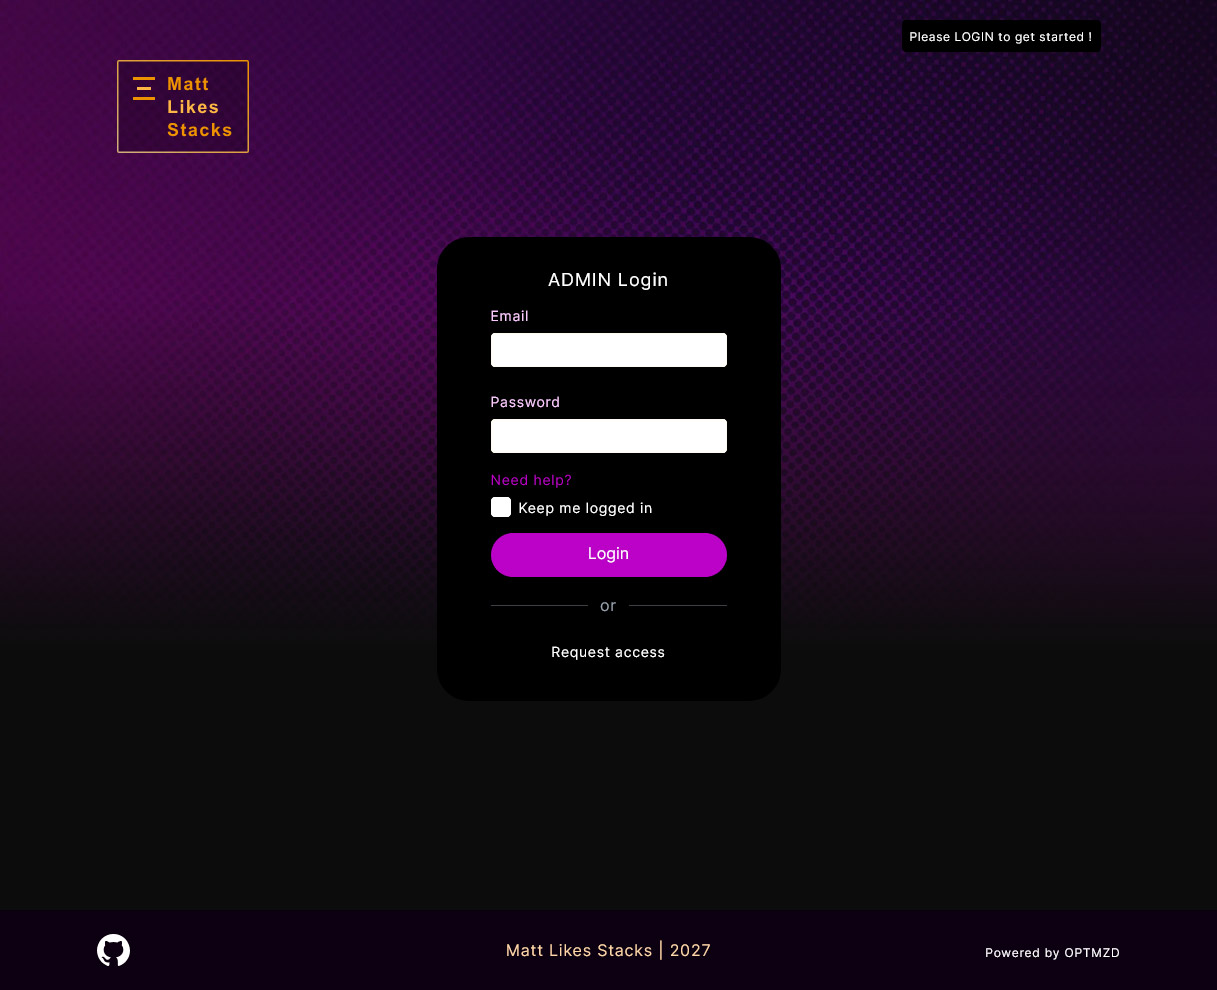
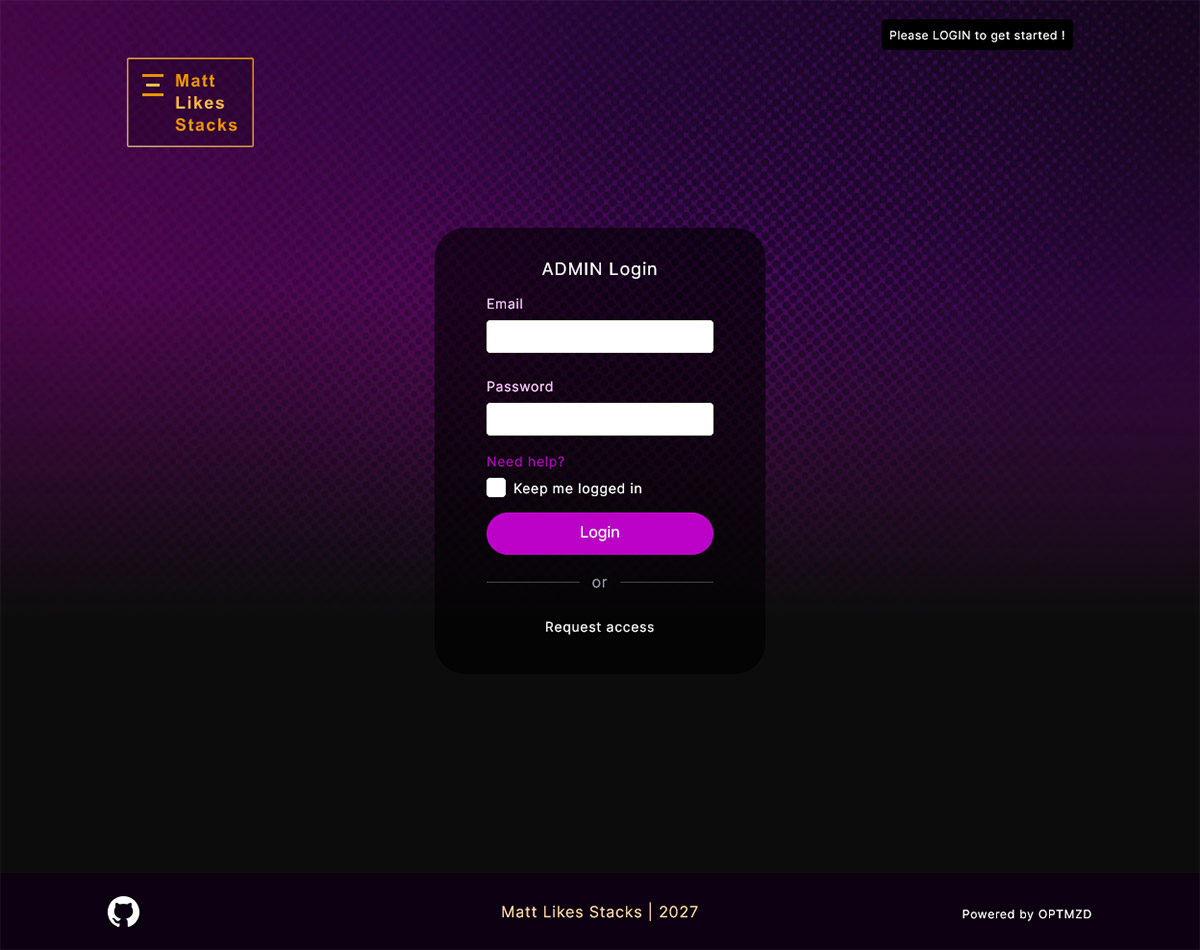
Update README.md

diff --git a/README.md b/README.md
@@ -15,25 +15,37 @@ A custom blogging platform with a public frontend and an admin CMS for managing 
 - Relational database for users, posts, categories, and comments
 - REST API endpoints between frontend and backend
 
+&nbsp;
 
-### Screenshots
-  <img src="public/images/frontend_home.jpg" alt="Home page of the blog frontend" width="700">
+### Screenshots - Client Side
 
-  &nbsp;
+<img src="public/images/frontend_home.jpg" alt="Home page of the blog frontend" width="700">
 
-  <img src="public/images/frontend_post_writing.jpg" alt="Post page of the blog frontend" width="700">
+&nbsp;
 
-  &nbsp;
+<img src="public/images/frontend_post_writing.jpg" alt="Post page of the blog frontend" width="700">
 
-  <img src="public/images/frontend_preview_reading.jpg" alt="Post page of the blog frontend" 
-  width="700">
+&nbsp;
 
-  &nbsp;
+<img src="public/images/frontend_preview_reading.jpg" alt="Post page of the blog frontend" 
+width="700">
 
-  <img src="public/images/frontend_about.jpg" alt="About me page of the blog frontend" width="700">
+&nbsp;
 
-  &nbsp;
+<img src="public/images/frontend_about.jpg" alt="About me page of the blog frontend" width="700">
 
-  <img src="public/images/admin_home.jpg" alt="Admin login page of the blog admin" width="700">
+&nbsp;
+
+### Screenshots - Admin
+
+<img src="public/images/admin_home.jpg" alt="Admin login page of the blog admin" width="700">
+
+&nbsp;
+
+<img src="public/images/admin_dashboard.jpg" alt="Admin login page of the blog admin" width="700">
+
+&nbsp;
+
+<img src="public/images/admin_posts_blog.jpg" alt="Admin login page of the blog admin" width="700">
 
 
